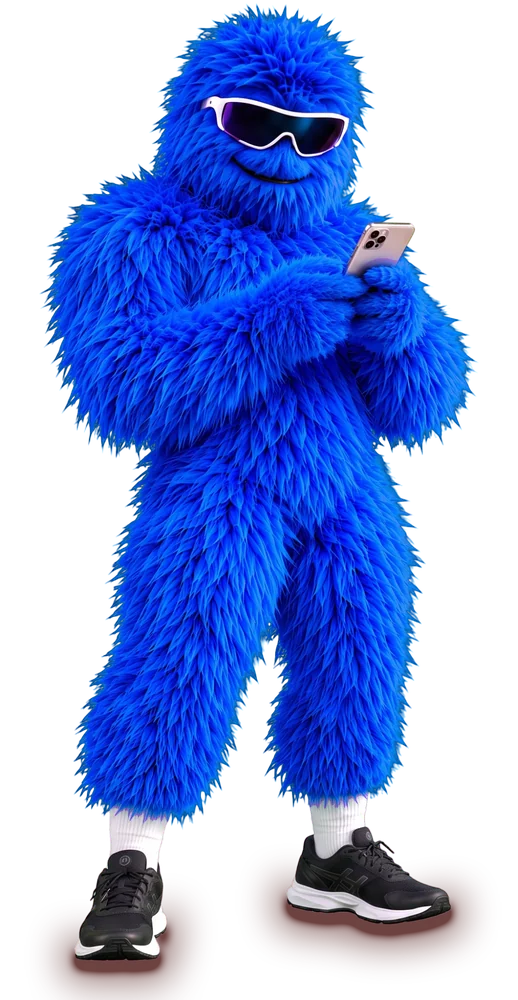
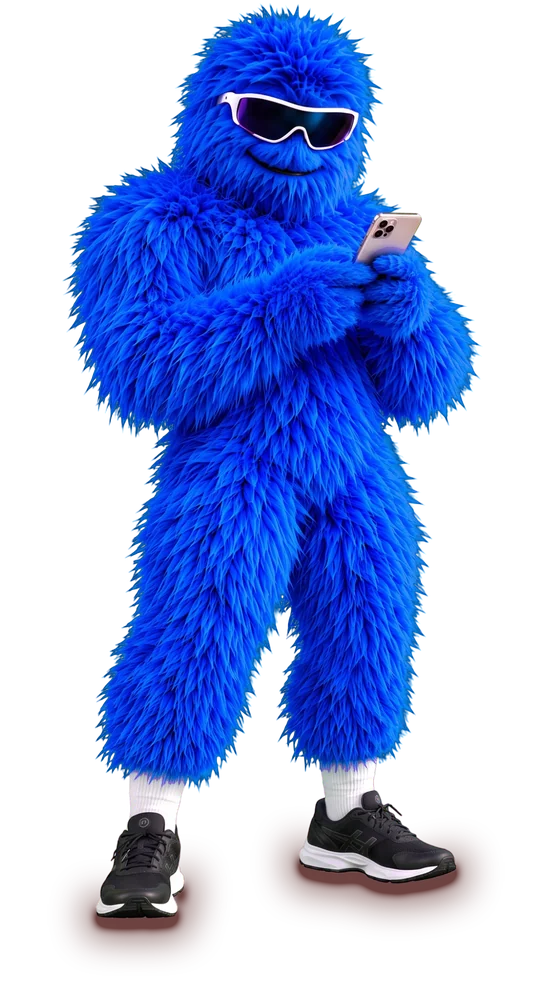
Landing Kontakt: cien pod butami stwora juz sie nie urywa

diff --git a/landing/kontakt.html b/landing/kontakt.html
@@ -1046,13 +1046,13 @@ details > div{padding:0 60px 26px 0; color:var(--m-muted); font-size:16px;}
 .db-txt p{color:rgba(255,255,255,.9); font-size:clamp(1rem,1.3vw,1.15rem); line-height:1.5; max-width:36ch;}
 .doc-banner .sp-screen{height:86%;}
 /* the creature who answers: stands on the orange banner next to the app's feedback screen, typing on its own phone */
-.db-stwor{position:absolute; z-index:2; pointer-events:none; aspect-ratio:518/1000;
-  --bh:clamp(520px,74vh,800px); height:calc(var(--bh) * .8); bottom:calc(var(--bh) * .03);
-  right:calc(clamp(24px,6vw,96px) + var(--bh) * .86 * 660 / 1430 - var(--bh) * .034);}
+.db-stwor{position:absolute; z-index:2; pointer-events:none; aspect-ratio:545/1000;
+  --bh:clamp(520px,74vh,800px); height:calc(var(--bh) * .837); bottom:calc(var(--bh) * -.006);
+  right:calc(clamp(24px,6vw,96px) + var(--bh) * .86 * 660 / 1430 - var(--bh) * .054);}
 .db-stwor img{display:block; width:100%; height:100%;}
 /* the shadow under each shoe is baked into the picture */
 @media (max-width:900px){
-  .db-stwor{--bh:0px; height:min(30svh,250px); bottom:10px; right:auto; left:2px;}
+  .db-stwor{--bh:0px; height:min(31.4svh,262px); bottom:-1px; right:auto; left:-4px;}
 }
 @media (max-width:900px){ .doc{grid-template-columns:1fr;} .doc-toc{display:none;}
   .doc-banner{grid-template-columns:1fr; height:auto; padding:clamp(28px,7vw,48px) 22px 0; justify-items:center; text-align:left;}
@@ -1070,7 +1070,7 @@ details > div{padding:0 60px 26px 0; color:var(--m-muted); font-size:16px;}
   <div class="sp-right"><a class="lang-switch" href="/en/contact" hreflang="en" lang="en" aria-label="English">EN</a><span class="soon sm" role="img" aria-label="Aplikacja na iPhone’a wkrótce w App Store"><svg viewBox="0 0 24 24" width="22" height="22" fill="currentColor" aria-hidden="true"><path d="M16.37 12.6c-.02-2.2 1.8-3.26 1.88-3.31-1.02-1.5-2.62-1.7-3.19-1.72-1.36-.14-2.65.8-3.34.8-.69 0-1.75-.78-2.88-.76-1.48.02-2.85.86-3.61 2.19-1.54 2.67-.39 6.62 1.1 8.79.73 1.06 1.6 2.25 2.74 2.2 1.1-.04 1.52-.71 2.85-.71s1.7.71 2.87.69c1.18-.02 1.93-1.08 2.66-2.14.84-1.23 1.18-2.42 1.2-2.48-.03-.01-2.3-.88-2.33-3.5zM14.2 6.13c.6-.74 1.02-1.76.9-2.78-.88.04-1.94.59-2.57 1.32-.56.65-1.06 1.7-.93 2.7.98.08 1.99-.5 2.6-1.24z"/></svg><span><small>Wkrótce w</small>App Store</span></span><button type="button" class="menu-btn" aria-controls="siteMenu" aria-expanded="false" aria-label="Menu"><svg aria-hidden="true" width="22" height="22" xmlns="http://www.w3.org/2000/svg" viewBox="0 0 256 256" fill="currentColor"><path d="M224,128a8,8,0,0,1-8,8H40a8,8,0,0,1,0-16H216A8,8,0,0,1,224,128ZM40,72H216a8,8,0,0,0,0-16H40a8,8,0,0,0,0,16ZM216,184H40a8,8,0,0,0,0,16H216a8,8,0,0,0,0-16Z"/></svg></button></div>
 </header>
 <main>
-<section class="doc-hero"><h1 class="rv" style="--i:1">Pomoc i&nbsp;kontakt</h1><p class="lede doc-lede rv" style="--i:1">Na każdą wiadomość odpisujemy sami, bez automatów. Napisz, z&nbsp;czym masz kłopot albo co warto zmienić w&nbsp;aplikacji.</p><div class="sp-media doc-banner rv" style="--i:2; background:#ff3300"><div class="db-txt"><span class="k">Napisz do nas</span><a class="db-mail" href="mailto:support@mekkio.app">support@mekkio.app</a><p>Pytanie, błąd albo pomysł. Z&nbsp;aplikacji napiszesz w&nbsp;Profilu, w&nbsp;sekcji Ustawienia i&nbsp;konto.</p></div><span class="db-stwor rv" style="--i:10" aria-hidden="true"><img src="/img/stwor/phone.webp?v=4" width="518" height="1000" alt="" decoding="async"></span><div class="sp-screen"><video src="img/story/pl-feedback.mp4" poster="img/story/pl-feedback-first.jpg" muted playsinline loop autoplay preload="metadata" aria-hidden="true"></video><div class="story-sb" aria-hidden="true"><span>9:41</span></div></div></div></section>
+<section class="doc-hero"><h1 class="rv" style="--i:1">Pomoc i&nbsp;kontakt</h1><p class="lede doc-lede rv" style="--i:1">Na każdą wiadomość odpisujemy sami, bez automatów. Napisz, z&nbsp;czym masz kłopot albo co warto zmienić w&nbsp;aplikacji.</p><div class="sp-media doc-banner rv" style="--i:2; background:#ff3300"><div class="db-txt"><span class="k">Napisz do nas</span><a class="db-mail" href="mailto:support@mekkio.app">support@mekkio.app</a><p>Pytanie, błąd albo pomysł. Z&nbsp;aplikacji napiszesz w&nbsp;Profilu, w&nbsp;sekcji Ustawienia i&nbsp;konto.</p></div><span class="db-stwor rv" style="--i:10" aria-hidden="true"><img src="/img/stwor/phone.webp?v=5" width="545" height="1000" alt="" decoding="async"></span><div class="sp-screen"><video src="img/story/pl-feedback.mp4" poster="img/story/pl-feedback-first.jpg" muted playsinline loop autoplay preload="metadata" aria-hidden="true"></video><div class="story-sb" aria-hidden="true"><span>9:41</span></div></div></div></section>
 <div class="doc"><nav class="doc-toc" aria-label="Spis treści"><b>Na tej stronie</b><a href="#napisz-do-nas">Napisz do nas</a><a href="#zglos-blad-prosto-z-aplikacji">Zgłoś błąd prosto z&nbsp;aplikacji</a><a href="#twoje-dane">Twoje dane</a><a href="#czeste-pytania">Częste pytania</a><a href="#kto-robi-mekkio">Kto robi Mekkio</a></nav><article class="doc-body rv"><h2 id="napisz-do-nas">Napisz do&nbsp;nas</h2>
     <p>Pytanie, błąd, pomysł na nową funkcję. Jeśli coś nie działa, napisz, na jakim iPhonie i&nbsp;co dokładnie się stało. Zrzut ekranu bardzo&nbsp;pomaga.</p>
 
